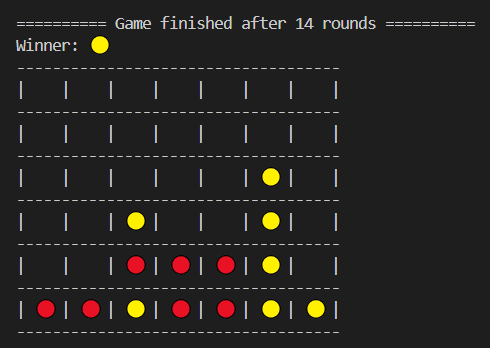
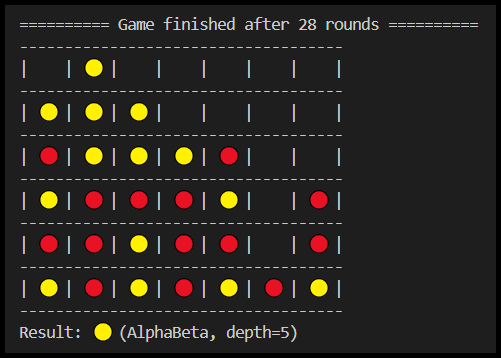
Update images and README; change display of results

Changed region(s): [[0.0, 0.0, 1.0, 1.0]]

diff --git a/combinatorium/tic_tac_toe/game.py b/combinatorium/tic_tac_toe/game.py
@@ -44,16 +44,21 @@ class TicTacToe(Game):
             self._board = new_board
             self._round += 1
         
-        self._show_final_results()        
+        self._show_final_result()        
         
-    def _show_final_results(self) -> None:
+    def _show_final_result(self) -> None:
         """Print the game's outcome to the console.
         """
         finished, result = self._board.evaluate()
         if finished:
             print(f"{10 * "="} Game finished after {self._round - 1} rounds {10 * "="}")
-            print(f"Winner: {self._board.player_to_string(result)}")
-            print(self._board)        
+            print(self._board)  
+            if result == 0:
+                print("Result: Draw")
+            else:
+                player_symbol = self._board.player_to_string(result)
+                player_type = str(self._players[result])
+                print(f"Result: {player_symbol} ({player_type})")        
 
     def __str__(self) -> str:
         player_symbol = self._board.player_to_string(self._board.player)

diff --git a/combinatorium/connect_four/game.py b/combinatorium/connect_four/game.py
@@ -42,16 +42,21 @@ class ConnectFour(Game):
             self._board = new_board
             self._round += 1
         
-        self._show_final_results()        
+        self._show_final_result()        
         
-    def _show_final_results(self) -> None:
+    def _show_final_result(self) -> None:
         """Print the game's outcome to the console.
         """
         finished, result = self._board.evaluate()
         if finished:
             print(f"{10 * "="} Game finished after {self._round - 1} rounds {10 * "="}")
-            print(f"Winner: {self._board.player_to_string(result)}")
-            print(self._board)        
+            print(self._board)  
+            if result == 0:
+                print("Result: Draw")
+            else:
+                player_symbol = self._board.player_to_string(result)
+                player_type = str(self._players[result])
+                print(f"Result: {player_symbol} ({player_type})")   
 
     def __str__(self) -> str:
         player_symbol = self._board.player_to_string(self._board.player)

diff --git a/README.md b/README.md
@@ -69,29 +69,15 @@ A table for complexities of some well-known games can be found [here](https://en
 
 ### Tic-tac-toe [:link:](https://github.com/hoverslam/combinatorium/tree/main/combinatorium/tic_tac_toe)
 
-<div style="display:flex;">
-  <div style="flex:1; padding-right:1rem;">
-    <p>Tic-tac-toe is a classic two-player game played on a 3x3 grid. Players take turns marking spaces with an <i><b>X</b></i> or <i><b>O</b></i>. The first player to get three of their marks in a row (horizontally, vertically, or diagonally) wins. This game is a great introduction to basic game mechanics and strategic thinking. The state space complexity is rather small with only 5 478 different states (after removing illegal positions).</p>
-  </div>
-  <div style="">
-    <img src="./img/tic_tac_toe.png" alt="Final results of a Tic-tac-toe game" style="width:250px; height:auto;">
-  </div>
-</div>
+Tic-tac-toe is a classic two-player game played on a 3x3 grid. Players take turns marking spaces with an ***X*** or ***O***. The first player to get three of their marks in a row (horizontally, vertically, or diagonally) wins. This game is a great introduction to basic game mechanics and strategic thinking. The state space complexity is rather small with only 5 478 different states (after removing illegal positions). Reference: [Wikipedia | Tic-tac-toe](https://en.wikipedia.org/wiki/Tic-tac-toe)
 
-Reference: [Wikipedia | Tic-tac-toe](https://en.wikipedia.org/wiki/Tic-tac-toe)
+<img src="./img/tic_tac_toe.png" alt="Final results of a Tic-tac-toe game" style="width:300px; height:auto;">
 
 ### Connect Four [:link:](https://github.com/hoverslam/combinatorium/tree/main/combinatorium/connect_four)
 
-<div style="display:flex;">
-  <div style="flex:1; padding-right:1rem;">
-    Connect Four is another two-player game played on a 7x6 grid. Players take turns dropping colored discs into one of the seven columns. The discs fall down the column and land on the first available space. The goal is to be the first player to connect four of your discs horizontally, vertically, or diagonally.</p>
-  </div>
-  <div style="">
-    <img src="./img/connect_four.png" alt="Final results of a Connect Four game" style="width:250px; height:auto;">
-  </div>
-</div>
+Connect Four is another two-player game played on a 7x6 grid. Players take turns dropping colored discs into one of the seven columns. The discs fall down the column and land on the first available space. The goal is to be the first player to connect four of your discs horizontally, vertically, or diagonally. Reference: [Wikipedia | Connect Four](https://en.wikipedia.org/wiki/Connect_Four)
 
-Reference: [Wikipedia | Connect Four](https://en.wikipedia.org/wiki/Connect_Four)
+<img src="./img/connect_four.png" alt="Final results of a Connect Four game" style="width:300px; height:auto;">
 
 ## Agents
 
